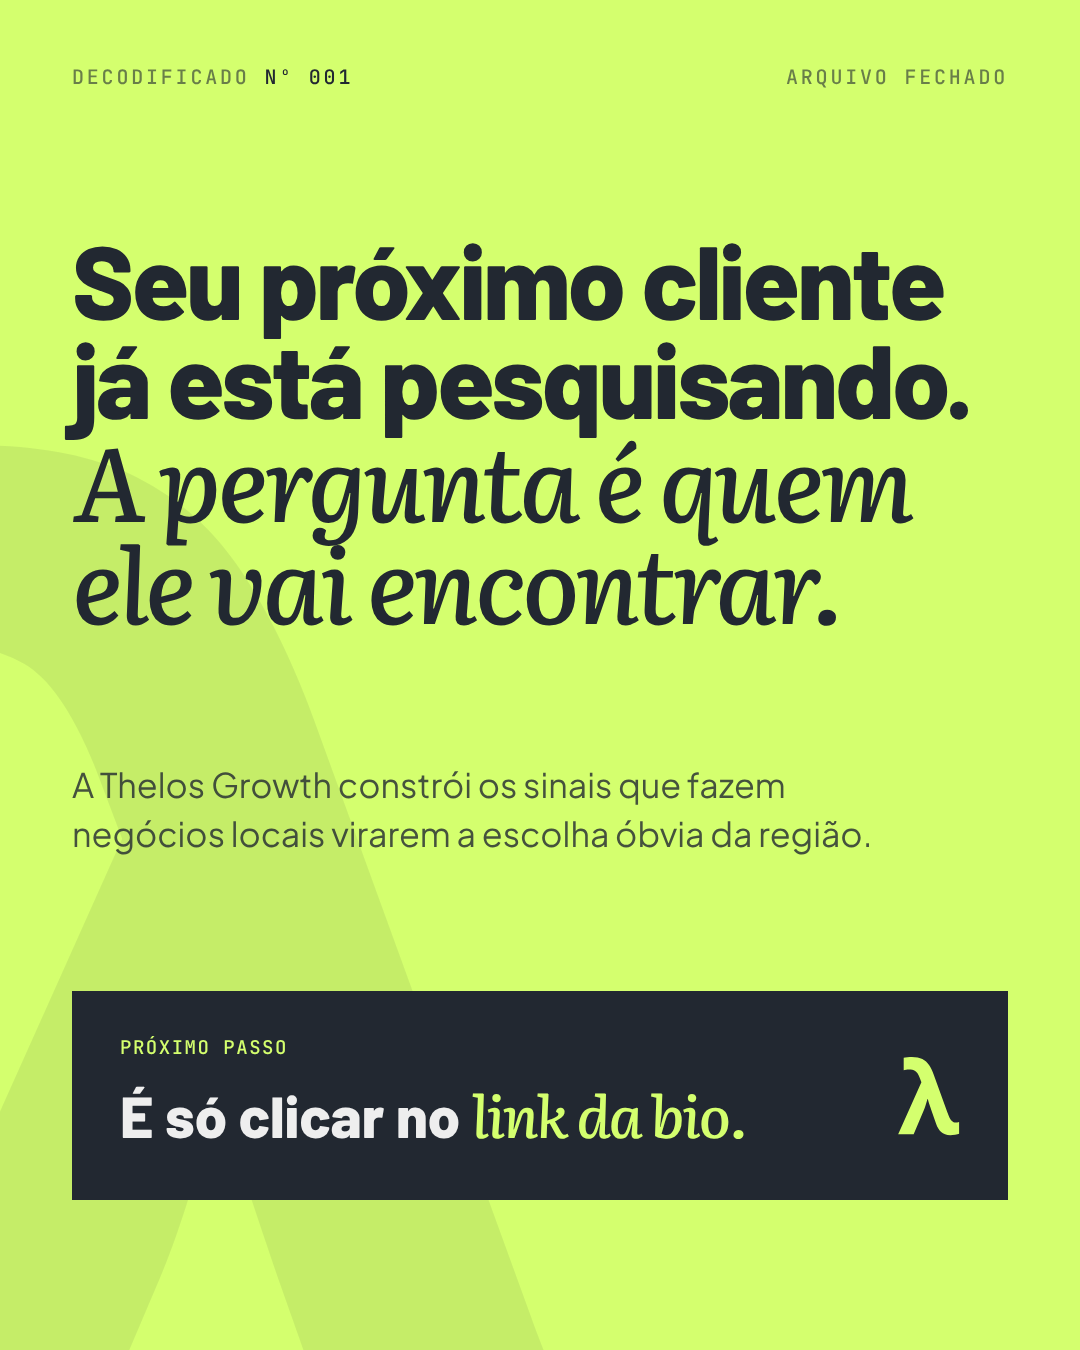
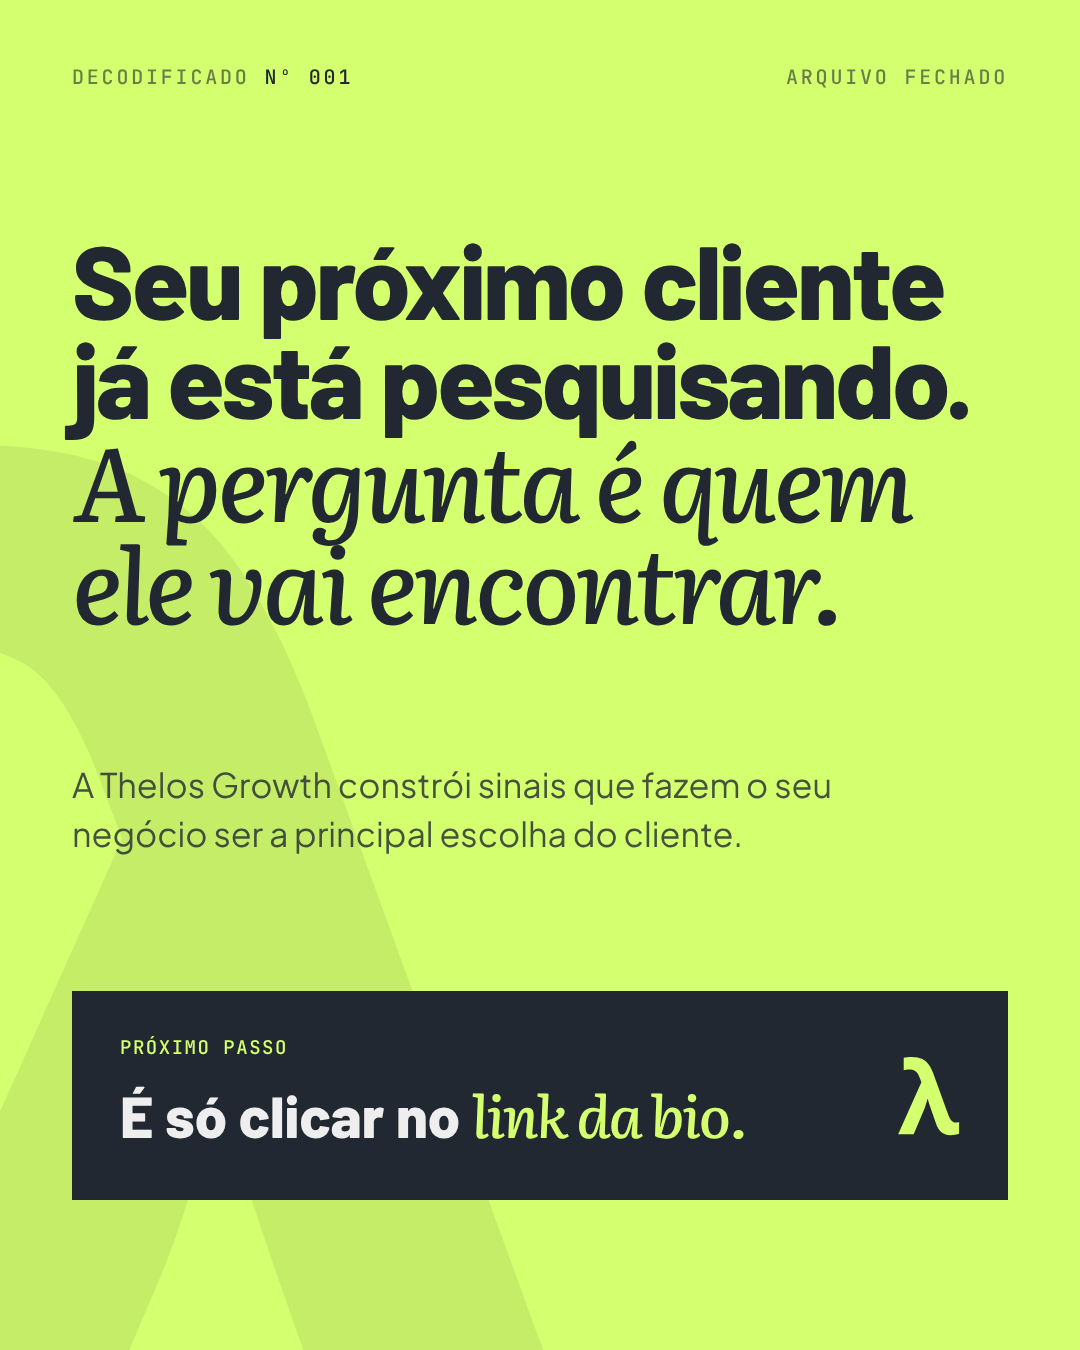
CTA: nova linha institucional
Claude-Session: https://claude.ai/code/session_01WuL6qQPsUhcM4cowxH4Nkt

Changed region(s): [[0.1833, 0.56, 0.7944, 0.6533]]

diff --git a/_fonte/2026-11-03-decodificado-001/post.html b/_fonte/2026-11-03-decodificado-001/post.html
@@ -89,7 +89,7 @@ h1,h2{font-family:B;font-weight:800;letter-spacing:-.025em;line-height:.95}
   <img src="lambda-dark.svg" style="height:1250px;left:-260px;bottom:-330px;opacity:.08">
   <div class="mono head" style="color:rgba(34,40,49,.6)"><span>Decodificado <b style="color:var(--dark)">Nº 001</b></span><span>Arquivo fechado</span></div>
   <h2 style="left:72px;right:72px;top:230px;font-size:104px">Seu próximo cliente já está pesquisando. <span class="it">A pergunta é quem ele vai encontrar.</span></h2>
-  <p class="txt" style="left:72px;right:200px;top:760px;color:var(--dark);opacity:.8">A Thelos Growth constrói os sinais que fazem negócios locais virarem a escolha óbvia da região.</p>
+  <p class="txt" style="left:72px;right:200px;top:760px;color:var(--dark);opacity:.8">A Thelos Growth constrói sinais que fazem o seu negócio ser a principal escolha do cliente.</p>
   <div style="left:72px;right:72px;bottom:150px;background:var(--dark);color:var(--light);padding:44px 48px;display:flex;justify-content:space-between;align-items:center">
     <div><div class="note">Próximo passo</div><div style="font-family:B;font-weight:800;font-size:58px;margin-top:10px">É só clicar no <span class="it hl">link da bio.</span></div></div>
     <img src="lambda-lime.svg" style="height:80px">

diff --git a/_template/post.html b/_template/post.html
@@ -89,7 +89,7 @@ h1,h2{font-family:B;font-weight:800;letter-spacing:-.025em;line-height:.95}
   <img src="lambda-dark.svg" style="height:1250px;left:-260px;bottom:-330px;opacity:.08">
   <div class="mono head" style="color:rgba(34,40,49,.6)"><span>Decodificado <b style="color:var(--dark)">Nº 001</b></span><span>Arquivo fechado</span></div>
   <h2 style="left:72px;right:72px;top:230px;font-size:104px">Seu próximo cliente já está pesquisando. <span class="it">A pergunta é quem ele vai encontrar.</span></h2>
-  <p class="txt" style="left:72px;right:200px;top:760px;color:var(--dark);opacity:.8">A Thelos Growth constrói os sinais que fazem negócios locais virarem a escolha óbvia da região.</p>
+  <p class="txt" style="left:72px;right:200px;top:760px;color:var(--dark);opacity:.8">A Thelos Growth constrói sinais que fazem o seu negócio ser a principal escolha do cliente.</p>
   <div style="left:72px;right:72px;bottom:150px;background:var(--dark);color:var(--light);padding:44px 48px;display:flex;justify-content:space-between;align-items:center">
     <div><div class="note">Próximo passo</div><div style="font-family:B;font-weight:800;font-size:58px;margin-top:10px">É só clicar no <span class="it hl">link da bio.</span></div></div>
     <img src="lambda-lime.svg" style="height:80px">
